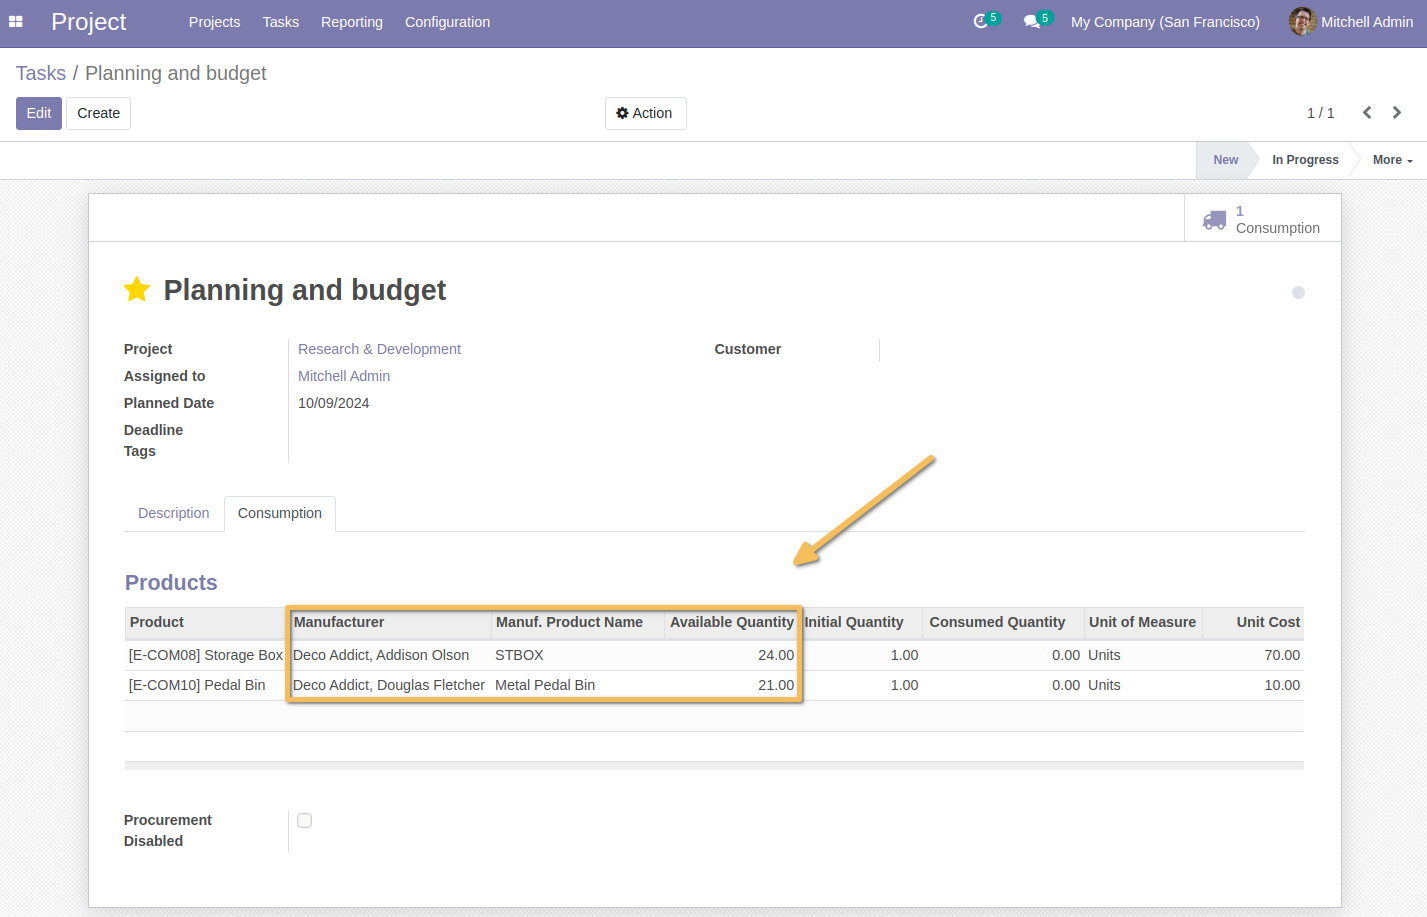
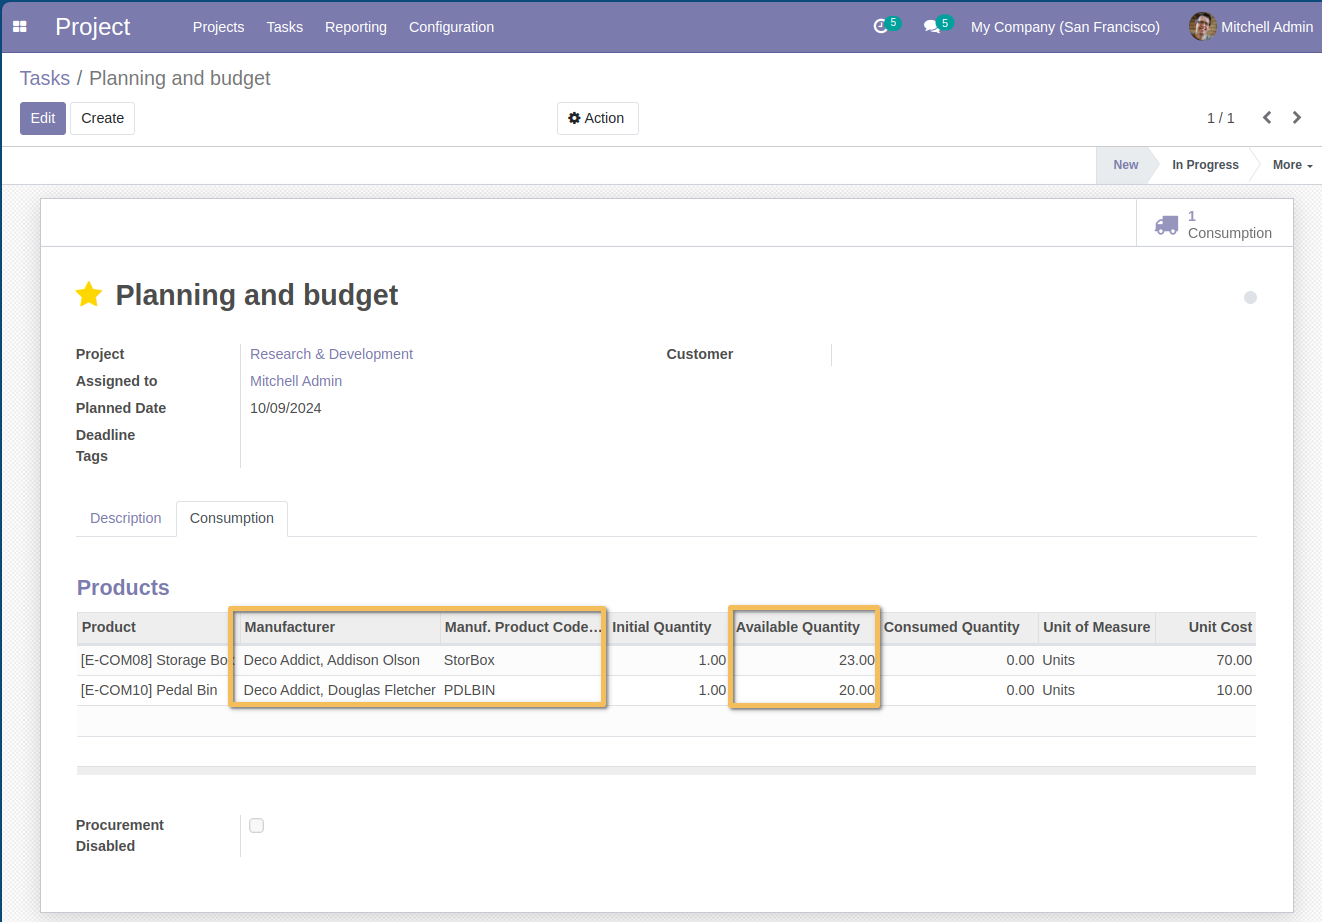
TA#70368 [14.0][CHG] project_material_enhanced : name to ref for manufacturer

diff --git a/project_material_enhanced/models/project_task_material.py b/project_material_enhanced/models/project_task_material.py
@@ -14,9 +14,9 @@ class ProjectTaskMaterial(models.Model):
         store=True,
     )
 
-    manufacturer_pname = fields.Char(
-        string='Manuf. Product Name',
-        related='product_id.manufacturer_pname',
+    manufacturer_pref = fields.Char(
+        string='Manuf. Product Code',
+        related='product_id.manufacturer_pref',
         store=True,
     )
 
